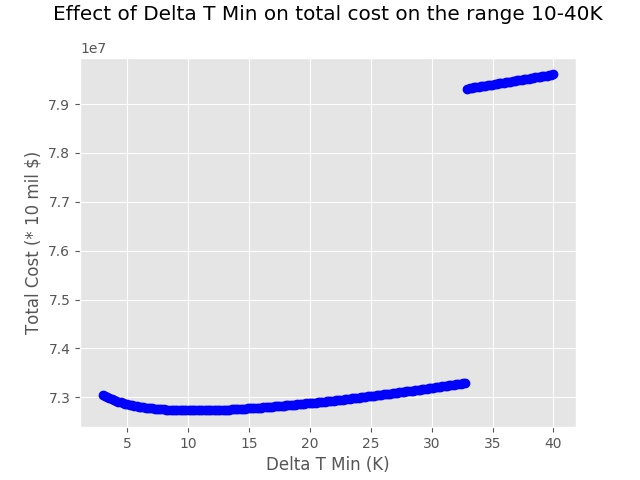
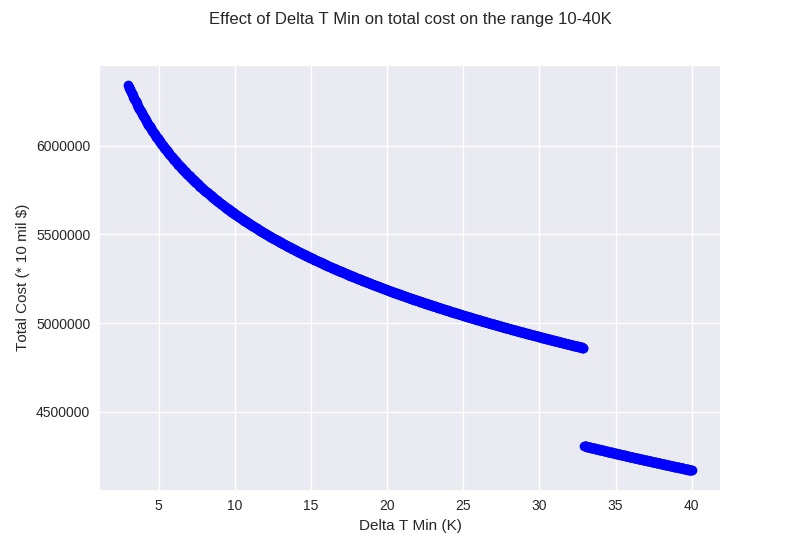
added overall optimizations

diff --git a/problem_table/problem_table/overall_minimization.py b/problem_table/problem_table/overall_minimization.py
@@ -1,0 +1,175 @@
+import sys
+from problem_table import stream,problem_table
+from scipy import optimize
+import matplotlib.pyplot as plt
+plt.style.use('seaborn')
+import numpy as np
+
+dHvap = 2250.76
+Cps = 1.895
+Cpw = 4.20
+Tf = 398-273
+Tsat = 378-273
+Tstart = 303-273
+
+streams = []
+unstreamed_values = []
+print("Inputs: ")
+with open(sys.argv[1],'r') as file:
+	for line in file:
+		vals = line.split(',')
+		vals2 = [float(val) for val in vals]
+		unstreamed_values.append(vals2)
+
+capitals = []
+energies = []
+savings = []
+
+
+def objective(dTmin):
+	streams = []
+	for val_set in unstreamed_values:
+		new_stream = stream(val_set[0],val_set[1],val_set[2],delta_T=dTmin)
+		streams.append(new_stream)
+	pt = problem_table(streams) 
+	Qc,Qh,pinch,deltaHs,intervalTemps = pt.calc_vals(gcc=True)
+	energy_cost = 300 * 3.6 * 10* (Qh+2832) #energy cost in $ 2832 is the KW from the unintegrated reboiler that must be considered
+	capital_cost = 12.5*10**6 / (dTmin**.05) #capital cost in $
+	saved_cost = saved(Qc,Qh,deltaHs,intervalTemps)
+	total_cost = energy_cost + capital_cost - saved_cost
+	#print("dtmin: {} Total cost: {} Saved Cost: {} Energy Cost: {}".format(dTmin,total_cost,saved_cost,energy_cost))
+	capitals.append(capital_cost)
+	energies.append(energy_cost)
+	savings.append(saved_cost)
+
+	return total_cost
+
+
+def steam_raising(Qc,Qh,deltaHs,intervalTemps):
+
+	def Hwater(T,H_start): #calculates the enthalpy of the water at a specific pt using eqs from paper
+		return H_start - Mw * Cpw * (T-Tstart) 
+
+	def Hstart(Hwsat,Mw): #calculates starting enthalpy based on given vals
+		return Mw * Cpw * (Tsat-Tstart) + Hwsat
+
+	def Mw_calc(Hwsat):
+		return Hwsat / dHvap * (1-Cps * (Tf-Tsat) / (dHvap + Cps * (Tf-Tsat)))
+
+	def Hsteam(T,Mw):
+		return Mw * Cps * (Tf - T) 
+
+	tHpoints = []
+	tHpoints.append((intervalTemps[0][0],Qh))
+	cascade = Qh*10
+	Qc *= 10
+	deltaHs = [i*10 for i in deltaHs]
+	for i in range(len(intervalTemps)):
+		cascade += deltaHs[i]
+		tHpoints.append((intervalTemps[i][1],cascade))
+
+
+	topPt = []
+	botPt = []
+	for i in range(len(tHpoints)):
+		if Tf >= tHpoints[i][0]:
+			topPt = i
+			break
+	for i in range(len(tHpoints)-1,0,-1):
+		if tHpoints[i][0] >= Tstart:
+			botPt = i
+			break
+
+	relevant_tH = tHpoints[topPt:botPt]
+
+
+
+
+	temps = [i[0] for i in tHpoints]
+	enthalpies = [i[1] for i in tHpoints]
+
+
+	# Hssat_init = Qc
+	# Mw = 1 / Cps * Hssat_init / (Tf-Tsat)
+	# Hwsat = dHvap * Mw + Hssat_init
+	Hwsat = Qc
+	Mw = Mw_calc(Hwsat)
+	# print("hssat_init",Hssat_init)
+	# print("init of its",Hwsat)
+
+
+
+
+	def gcc_crossed(Hwsat,Mw):
+		H_start = Hstart(Hwsat,Mw)
+		for pt in relevant_tH:
+			if Hwater(pt[0],H_start) > pt[1]:
+				return True
+		return False
+
+
+	while gcc_crossed(Hwsat,Mw):
+		Hwsat -= 1
+		Mw = Mw_calc(Hwsat)
+	 
+	Mw = Mw_calc(Hwsat)
+	H_sr = Cpw * Mw * (Tsat-Tstart) + dHvap * Mw + Cps * Mw * (Tsat-Tstart)
+
+	Tpoints = np.linspace(Tstart,Tsat,100)
+	H_start = Hstart(Hwsat,Mw_calc(Hwsat))
+	Hpoints = Hwater(Tpoints,H_start)
+
+	TpointsSteam = np.linspace(Tsat,Tf,100)
+	HpointsSteam = Hsteam(TpointsSteam,Mw)
+
+	Htransition = np.linspace(Hpoints[-1],HpointsSteam[0],100)
+	Ttransition = [Tsat for i in range(100)]
+
+	# plt.style('ggplot')
+	# plt.annotate('Hwsat',xy=(Hwsat,105),xytext=(Hwsat+200,110), arrowprops=dict(facecolor='black',arrowstyle='-|>'))
+	# plt.annotate('Hssat',xy=(HpointsSteam[0],105),xytext=(HpointsSteam[0],60), arrowprops=dict(facecolor='black',arrowstyle='-|>'))
+	# plt.annotate('Hstart',xy=(H_start,30),xytext=(H_start-400,35), arrowprops=dict(facecolor='black',arrowstyle='-|>'))
+
+
+	# plt.plot(enthalpies,temps)
+	# plt.plot(Hpoints,Tpoints,'r')
+	# plt.plot(HpointsSteam,TpointsSteam,'r')
+	# plt.plot(Htransition,Ttransition,'r')
+	# plt.xlabel("Enthalpy (kW)")
+	# plt.ylabel("Temperature (Celsius)")
+	# plt.show()
+
+	# raise ValueError("Fuck my life")
+
+
+
+	return H_sr,Mw
+
+def saved(Qc,Qh,deltaHs,intervalTemps):
+	H_sr,Mw = steam_raising(Qc,Qh,deltaHs,intervalTemps)
+	#print("H_sr",H_sr,"Qc",Qc*10,"Qh",Qh)
+	Work_carnot = 21.141 * (1/44.01) * Mw / 1000 #j / mol * mol / kg * kg/s * kj / j
+	return (H_sr + Work_carnot) * 300 * 3.6
+
+
+
+
+
+dTmin_array = np.linspace(3,40,1000)
+costs = []
+for i in dTmin_array:
+	costs.append(objective(i))
+
+print("Min Delta T: ",dTmin_array[costs.index(min(costs))], "Min Cost: ", min(costs))
+
+
+plt.plot(dTmin_array,costs,label='total costs')
+plt.xlabel('Delta T Min (K)')
+plt.ylabel('Total Cost (* 10 mil $)')
+plt.title('Effect of Delta T Min on total cost',y=1.08)
+plt.savefig('overall_total_cost_with_steam_raising_total_only.jpg')
+plt.show()
+
+
+
+

diff --git a/problem_table/problem_table/problem_table.py b/problem_table/problem_table/problem_table.py
@@ -75,18 +75,18 @@ class problem_table:
 
 		
 		cascade_for_print = Qh_min
-		if debug:
-			print("{:6} {:8} {:8} {:8} {:8}".format("Temp","CP","deltaH","infeasible","feasible"))
-			print(intervals[0][0])
-		for i in range(len(intervals)):
-			interval = intervals[i][1]
-			cp = interval_cps[i]
-			dH = interval_deltaHs[i]
-			cascade_for_print += interval_deltaHs[i] 
-			print("{:6} {:8.4} {:8.4} {:8.4} {:8.4}".format(interval,cp,dH, cascade_for_print - Qh_min,cascade_for_print))
+		# if debug:
+		# 	print("{:6} {:8} {:8} {:8} {:8}".format("Temp","CP","deltaH","infeasible","feasible"))
+		# 	print(intervals[0][0])
+		# for i in range(len(intervals)):
+		# 	interval = intervals[i][1]
+		# 	cp = interval_cps[i]
+		# 	dH = interval_deltaHs[i]
+		# 	cascade_for_print += interval_deltaHs[i] 
+		# 	print("{:6} {:8.4} {:8.4} {:8.4} {:8.4}".format(interval,cp,dH, cascade_for_print - Qh_min,cascade_for_print))
 				
-		print("{:8} {:8} {:8}".format("Qc_min","Qh_min","T_pinch"))
-		print("{:8.5} {:8.5} {:8.5}".format(Qc_min,Qh_min,pinch))
+		# 	print("{:8} {:8} {:8}".format("Qc_min","Qh_min","T_pinch"))
+		# 	print("{:8.5} {:8.5} {:8.5}".format(Qc_min,Qh_min,pinch))
 		if gcc:
 			return [Qc_min,Qh_min,pinch,interval_deltaHs,intervals]
 		else:

diff --git a/problem_table/problem_table/steam_raising.py b/problem_table/problem_table/steam_raising.py
@@ -2,6 +2,7 @@ import sys
 from problem_table import stream,problem_table
 import matplotlib.pyplot as plt 
 import numpy as np
+plt.style.use('seaborn')
 
 streams = []
 print("Inputs: ")
@@ -86,6 +87,8 @@ while gcc_crossed(Hwsat,Mw):
 
 print(Hwsat)
 print(Mw_calc(Hwsat)) 
+Mw = Mw_calc(Hwsat)
+
 
 Tpoints = np.linspace(Tstart,Tsat,100)
 H_start = Hstart(Hwsat,Mw_calc(Hwsat))
@@ -97,6 +100,11 @@ HpointsSteam = Hsteam(TpointsSteam,Mw)
 Htransition = np.linspace(Hpoints[-1],HpointsSteam[0],100)
 Ttransition = [Tsat for i in range(100)]
 
+# plt.style('ggplot')
+plt.annotate('Hwsat',xy=(Hwsat,105),xytext=(Hwsat+200,110), arrowprops=dict(facecolor='black',arrowstyle='-|>'))
+plt.annotate('Hssat',xy=(HpointsSteam[0],105),xytext=(HpointsSteam[0],60), arrowprops=dict(facecolor='black',arrowstyle='-|>'))
+plt.annotate('Hstart',xy=(H_start,30),xytext=(H_start-400,35), arrowprops=dict(facecolor='black',arrowstyle='-|>'))
+
 
 plt.plot(enthalpies,temps)
 plt.plot(Hpoints,Tpoints,'r')
@@ -105,7 +113,9 @@ plt.plot(Htransition,Ttransition,'r')
 plt.xlabel("Enthalpy (kW)")
 plt.ylabel("Temperature (Celsius)")
 plt.title("Steam raising plot and GCC")
+plt.savefig("steam_raising.jpg")
 plt.show()
+
 
 
 

diff --git a/problem_table/problem_table/optimal_delta_t_min.py b/problem_table/problem_table/optimal_delta_t_min.py
@@ -2,7 +2,7 @@ import sys
 from problem_table import stream,problem_table
 from scipy import optimize
 import matplotlib.pyplot as plt
-plt.style.use('ggplot')
+plt.style.use('seaborn')
 import numpy as np
 
 streams = []
@@ -22,19 +22,21 @@ def objective(dTmin):
 		streams.append(new_stream)
 	pt = problem_table(streams) 
 	Qc,Qh,pinch = pt.calc_vals()
-	energy_cost = 300 * 3.6 * 10* (Qc+Qh+2832) #energy cost in $ 2832 is the KW from the unintegrated reboiler that must be considered
+	energy_cost = 300 * 3.6 * 10* (Qh+2832) #energy cost in $ 2832 is the KW from the unintegrated reboiler that must be considered
 	capital_cost = 12.5*10**6 / (dTmin**.05) #capital cost in $
 	total_cost = energy_cost + capital_cost
 	return total_cost
 
 
-# res = optimize.fmin(objective,31)
-# print(res)
 
-dTmin_array = np.linspace(3,40,200)
+
+dTmin_array = np.linspace(3,40,500)
 costs = []
 for i in dTmin_array:
 	costs.append(objective(i))
+
+print("Min Delta T: ",dTmin_array[costs.index(min(costs))], "Min Cost: ", min(costs))
+
 
 plt.plot(dTmin_array,costs,'bo')
 plt.xlabel('Delta T Min (K)')
